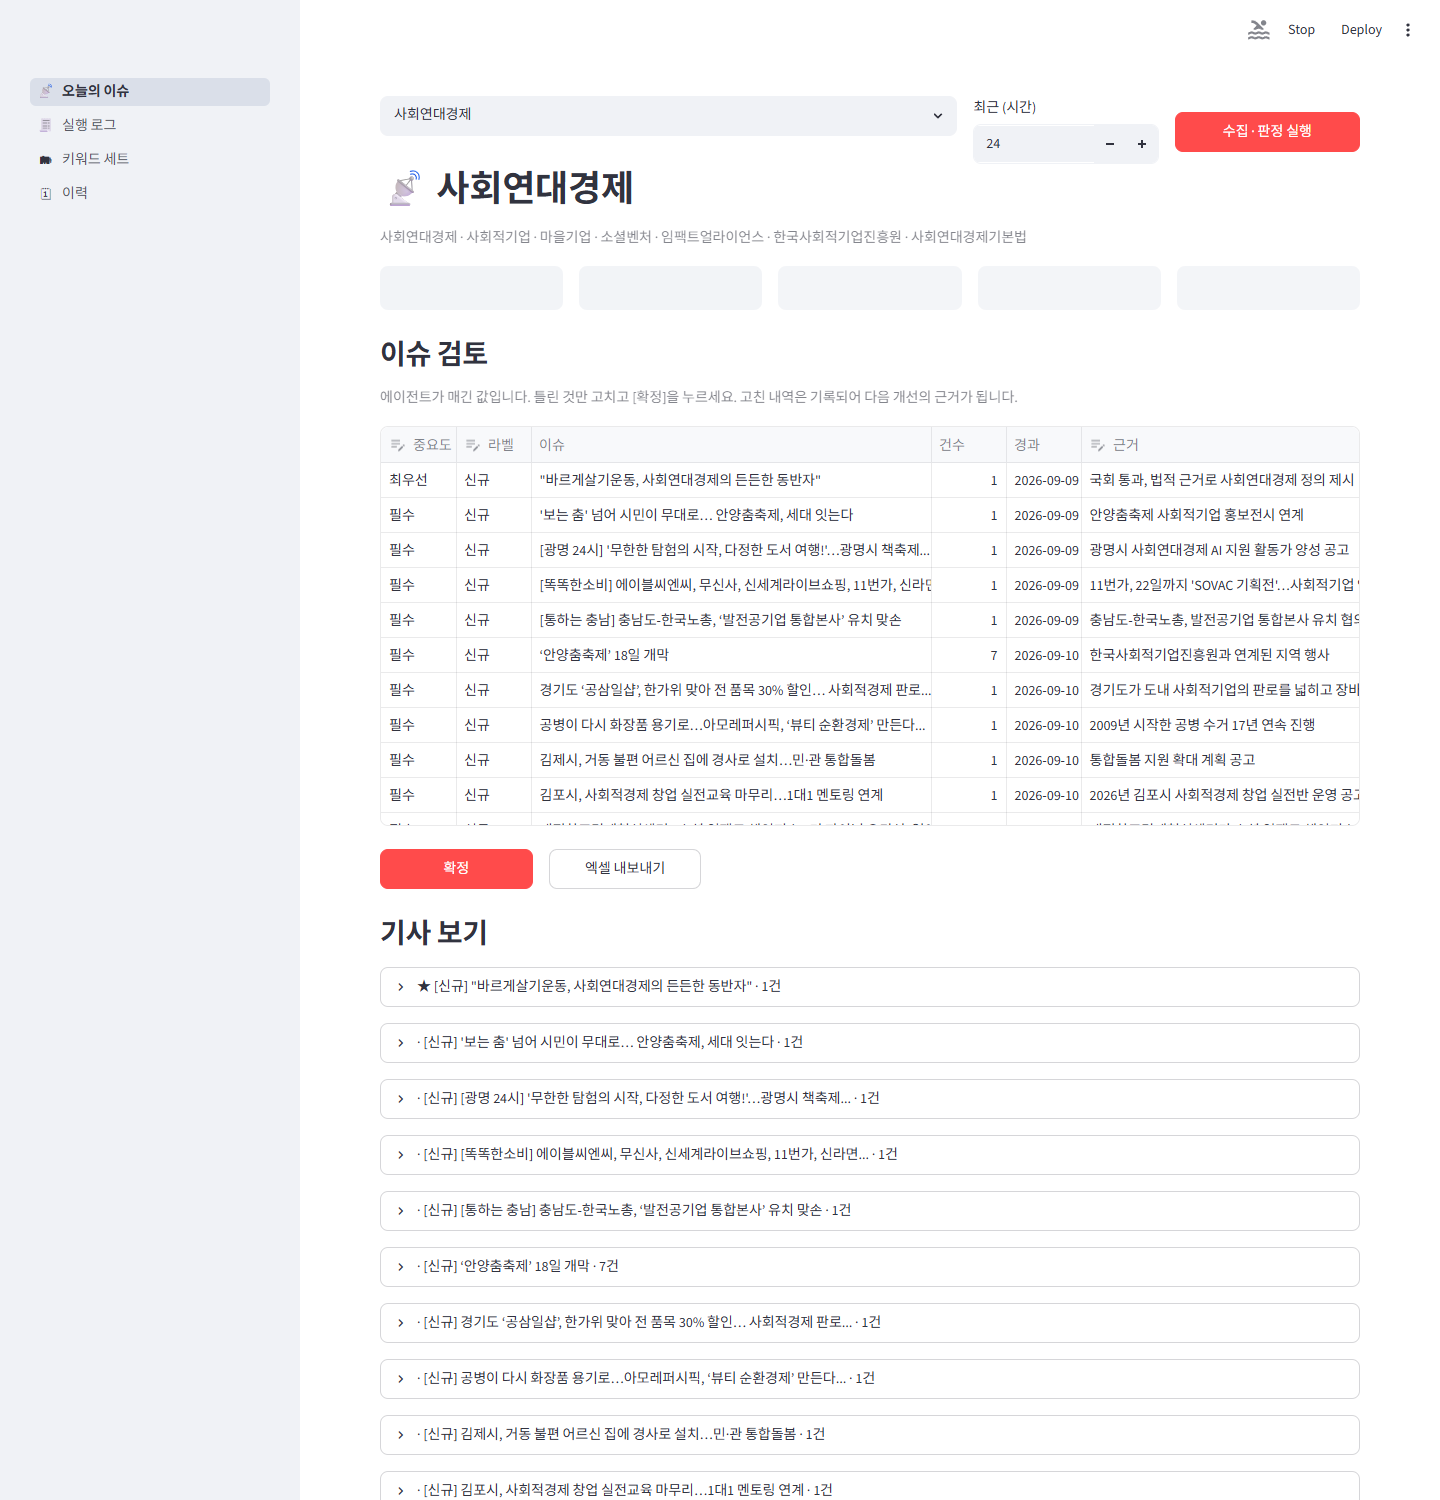
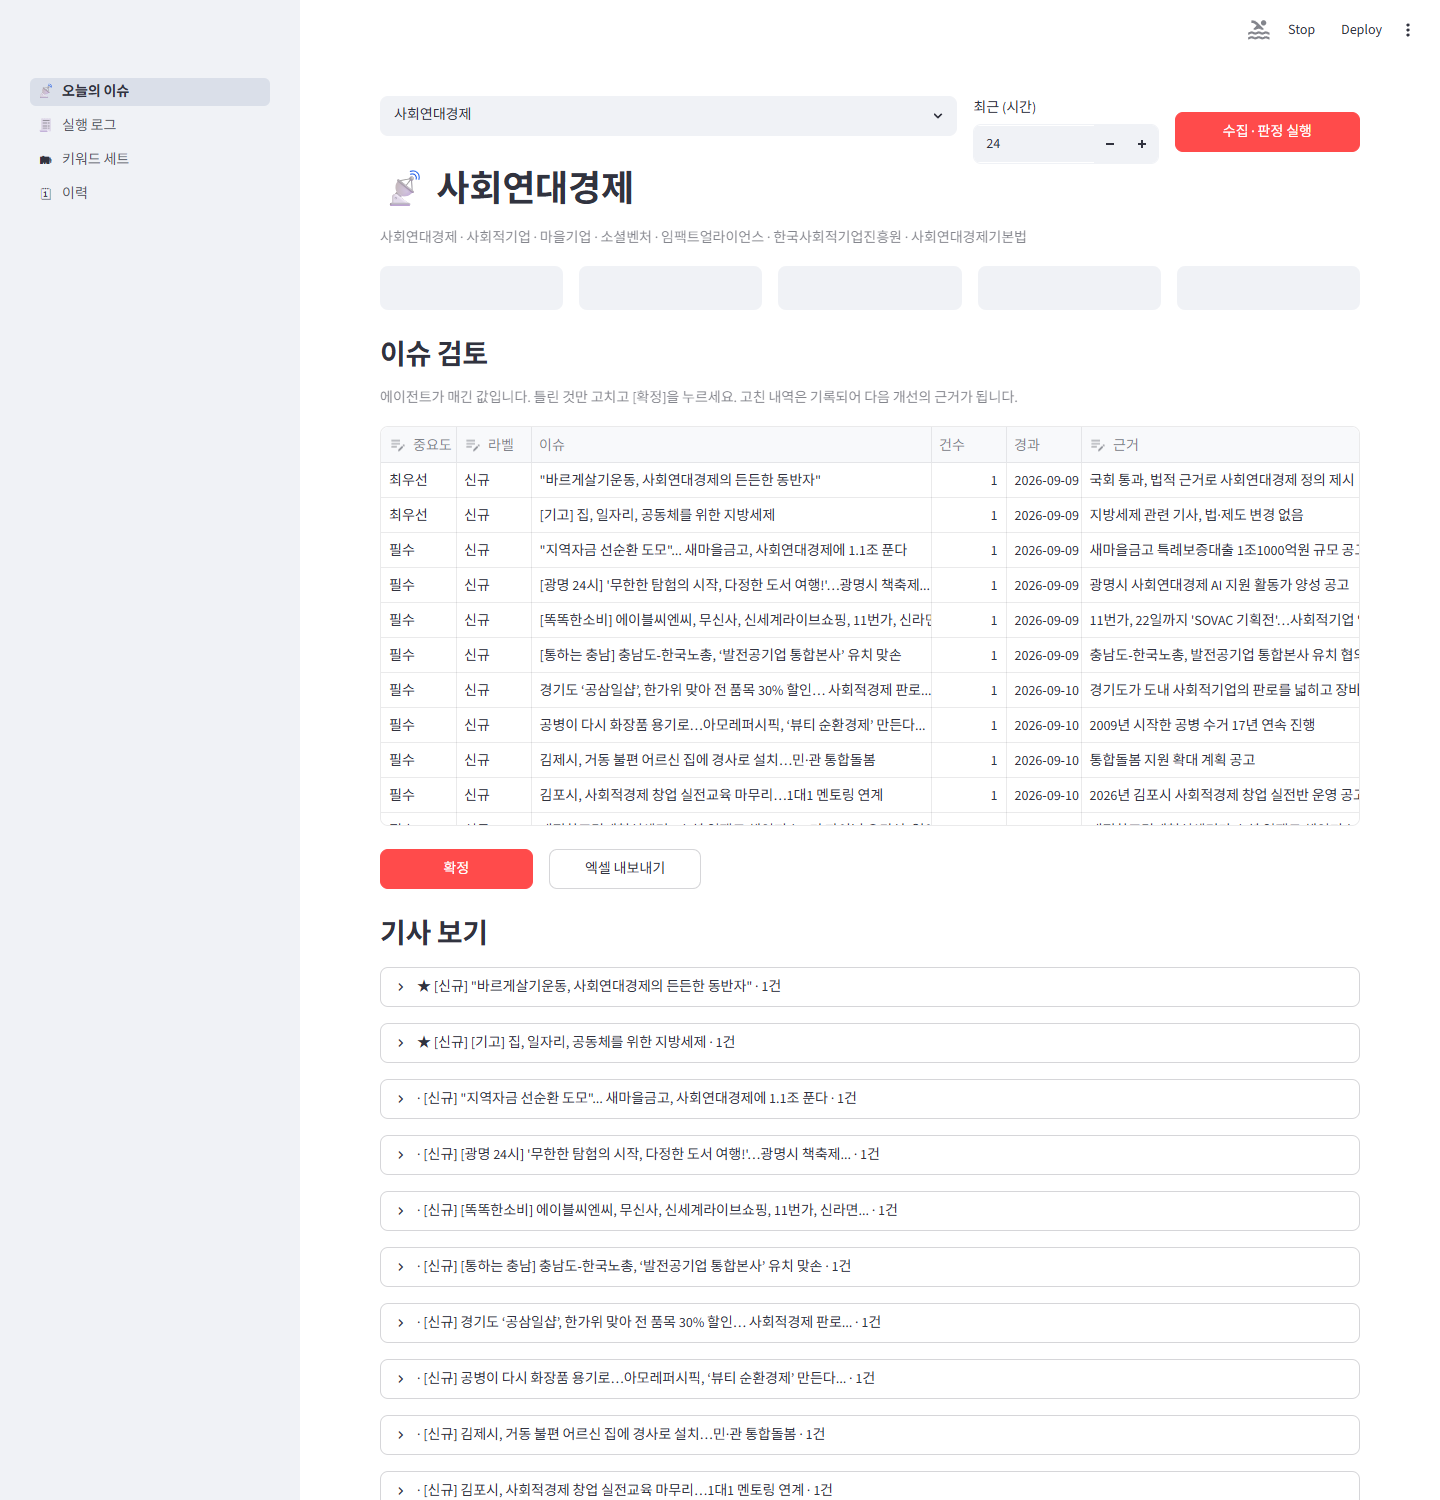
feat: 누락률 측정 완료 — 수용 기준 3번 통과 (7.9%)
1일치 63묶음을 사람이 전건 검토·확정했다.

  확정 63건 · 수정률 14.3% · 누락률 7.9% · 과잉 4건

누락 5건은 새마을금고 1.1조 특례보증대출, 지방세제 개편 기고,
사회연대경제박람회 2건, 소셜벤처 투자 상담회였다.

과잉 4건은 전부 D 오판이었고 그중 하나는 기사에 없는 기관명을
지어낸 환각이었다. D에 트리거 검증을 걸지 않기로 한 판단을
실측이 뒷받침한다 — 누락이 과잉보다 비싼 오류이며, D 검증은
누락을 늘리는 쪽이다.

수용 기준: 통과 3 → 4, 미측정 2 → 1.

diff --git a/PRD.md b/PRD.md
@@ -860,17 +860,51 @@ README.md
 |---|---|---|---|
 | 1 | README 절차만으로 새 환경 실행 | **부분** | 의존성 4개와 CLI 명령은 이 환경에서 검증. 다른 PC에서는 미검증 |
 | 2 | 시나리오 중 사람 개입 없이 판정 완료 | **부분** | 1일치 실행에서 `status=done`, **63묶음 전건 판정, 미판정 0건**. 7일 표본은 미확보 |
-| 3 | **누락률 10% 이하** | **미측정** | 확정 0건. 사람이 승인해야 산출된다 |
+| 3 | **누락률 10% 이하** | **통과** | **7.9%** (63건 확정, 5건 상향). §10.2 |
 | 4 | **수집 재현율 개선 수치 확인** | **통과** | 110건 → 187건 (+70%). §1.2(4) |
 | 5 | 도구 호출이 이유·결과·소요시간과 함께 화면에 | **통과** | 23단계 전부 기록. `search_news` 1 / `lookup_history` 1 / `judge` 21, 이유·소요시간 누락 0 |
 | 6 | 중단 후 재실행 시 이어서 진행 | **통과** | 20분 상한 도달로 20묶음이 `held`로 남았고, `--resume 1`로 마저 판정해 65/65 완료 |
 | 7 | 검토 시간 단축 실측 | **미측정** | 사람이 실제로 검토해야 잴 수 있다 |
 
-**통과 3 / 부분 2 / 미측정 2.**
-
-미측정 2건(3번·7번)은 모두 **사람이 며칠 운영해야 나오는 값**이다. 측정 장치는 구현되어 있고(`db.miss_rate`, ③ 화면), 승인 데이터가 쌓이는 즉시 산출된다. 코드로 채울 수 있는 항목은 아니다.
+**통과 4 / 부분 2 / 미측정 1.**
 
 부분 2건 중 2번은 표본 문제이지 동작 문제가 아니다 — 실행한 1일치에서는 사람 개입 없이 전건 판정이 완료됐다.
+
+### 10.2 누락률 측정 결과 (2026-09-10, 1일치 63묶음)
+
+사용자가 63묶음 전체를 검토·확정했다.
+
+```
+확정      63건
+수정률    14.3%   (9건 수정)
+누락률     7.9%   (5건 — 사람이 등급을 올린 것)
+과잉        4건   (사람이 등급을 내린 것)
+```
+
+**누락 5건 — 에이전트가 참고로 내렸으나 사람이 올린 것**
+
+| 기사 | 사람 판정 | 왜 |
+|---|---|---|
+| 새마을금고, 사회연대경제에 1.1조 푼다 | 필수(C) | 1조1000억 규모 특례보증대출 신설 |
+| [기고] 집, 일자리, 공동체를 위한 지방세제 | 최우선(B) | 취득세 감면 대상 확대 등 세제 개편 내용 |
+| 전남광주 사회연대경제기업 60곳, 판로 확대 | 필수(D) | 지역 박람회, 공공기관 구매 상담 |
+| 통합특별시, 사회연대경제박람회 개최 | 필수(D) | 위와 같은 사안의 다른 보도 |
+| 대전혁신센터, 소셜벤처 투자 상담회 | 필수(D) | 유관 기관 사업 동향 |
+
+**과잉 4건 — 에이전트가 올렸으나 사람이 내린 것. 전부 `D` 오판이었다**
+
+| 기사 | 에이전트 근거 | 실제 |
+|---|---|---|
+| 영월군복지관·망경산사 템플스테이 | "임팩트얼라이언스 협력 기관 동향" | **기사에 그 기관이 없다. 환각** |
+| 안양춤축제 개막 (2건) | "한국사회적기업진흥원과 연계된 지역 행사" | 축제에 사회적기업 부스가 있을 뿐 |
+| 주민이 만든 꽃밭과 축제 | "사회적기업이 운영하는 카페" | 미담 기사 |
+
+**해석**
+
+1. **수용 기준 3번을 통과했다** — 누락률 7.9%로 목표 10% 이하. §1.2(2)의 우려가 처음으로 숫자가 되었다.
+2. **놓치는 것이 0이 된 것이 아니라, 놓치는 것이 보이게 되었다.** 기존 방식은 페이징에서 조용히 잘려 누락 자체를 알 수 없었다.
+3. **과잉 4건이 전부 `D` 오판이다.** §8.3의 판단 — D에 트리거 검증을 걸지 않기로 한 것 — 을 실측이 뒷받침한다. 검증을 걸었으면 이 4건은 잡혔겠지만 트리거 목록에 없는 진짜 유관기관 소식이 참고로 밀렸을 것이고, 이 표가 보여주듯 **누락(5건)이 과잉(4건)보다 비싼 오류**다.
+4. **표본은 1일치다.** 며칠 더 쌓아야 안정된 값이 된다.
 
 ---
 

diff --git a/README.md b/README.md
@@ -317,13 +317,25 @@ egister_task.bat` | Windows 작업 스케줄러에 등록 |
 |---|---|---|
 | 1 | README 절차만으로 새 환경 실행 | 부분 (이 환경에서만 검증) |
 | 2 | 사람 개입 없이 판정 완료 | 부분 (1일치 63묶음 전건 완료, 7일 표본 미확보) |
-| 3 | **누락률 10% 이하** | **미측정** — 확정 0건 |
+| 3 | **누락률 10% 이하** | **통과 — 7.9%** (63건 확정) |
 | 4 | 수집 재현율 개선 확인 | **통과** (+70%) |
 | 5 | 도구 호출 이유·결과·시간 기록 | **통과** (23단계 전부) |
 | 6 | 중단 후 재개 | **통과** (`--resume`으로 20묶음 마저 판정) |
 | 7 | 검토 시간 단축 실측 | **미측정** |
 
-통과 3 / 부분 2 / 미측정 2. 미측정 2건은 사람이 며칠 운영해야 나오는 값이며, 측정 장치는 구현되어 있다. 상세는 PRD §10.1.
+통과 4 / 부분 2 / 미측정 1. 상세는 PRD §10.1.
+
+### 누락률 측정 결과 (1일치 63묶음)
+
+```
+수정률  14.3%      누락률  7.9% (5건)      과잉  4건
+```
+
+**누락 5건** — 새마을금고 1.1조 특례보증대출, 지방세제 개편 기고, 사회연대경제박람회 2건, 소셜벤처 투자 상담회.
+
+**과잉 4건은 전부 `D` 오판**이었고, 그중 하나는 기사에 없는 기관명을 지어낸 환각이었다(영월 템플스테이 → "임팩트얼라이언스 협력").
+
+놓치는 것이 0이 된 게 아니라 **놓치는 것이 보이게 됐다.** 기존 방식은 페이징에서 조용히 잘려 누락 자체를 알 수 없었다. 상세는 PRD §10.2.
 
 ### 판정 품질 — 모델 비교로 해소
 
